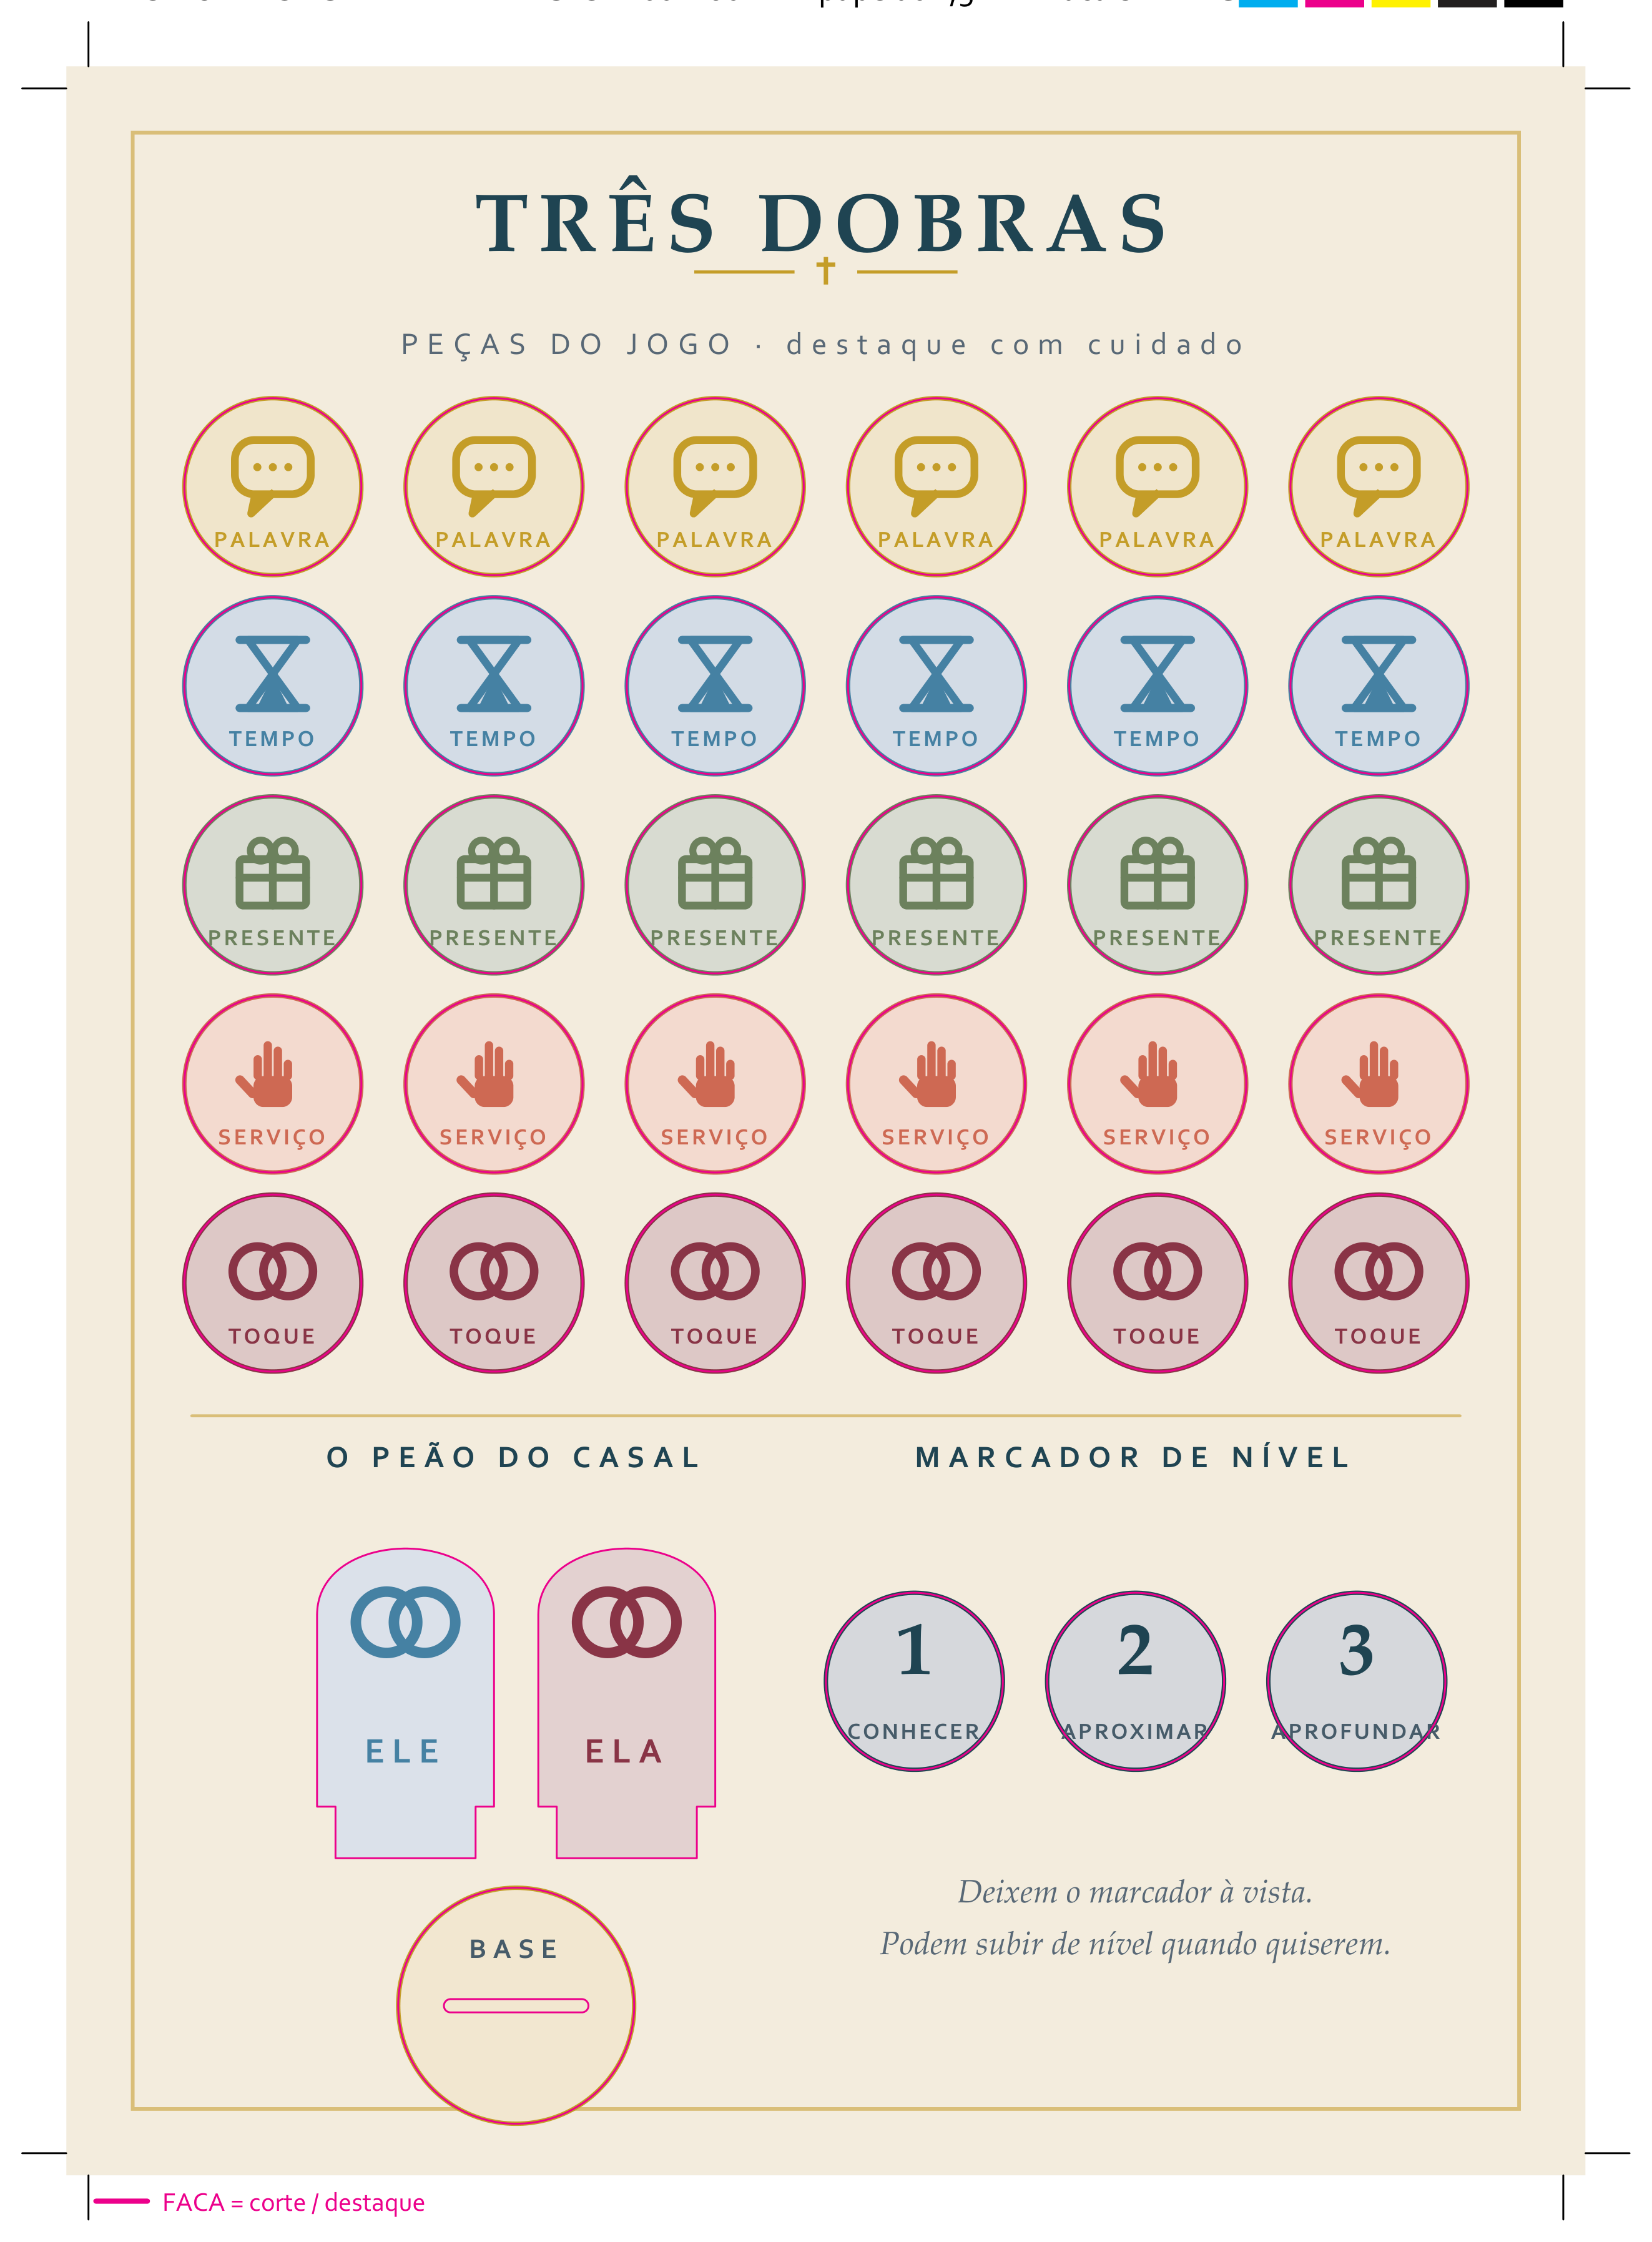
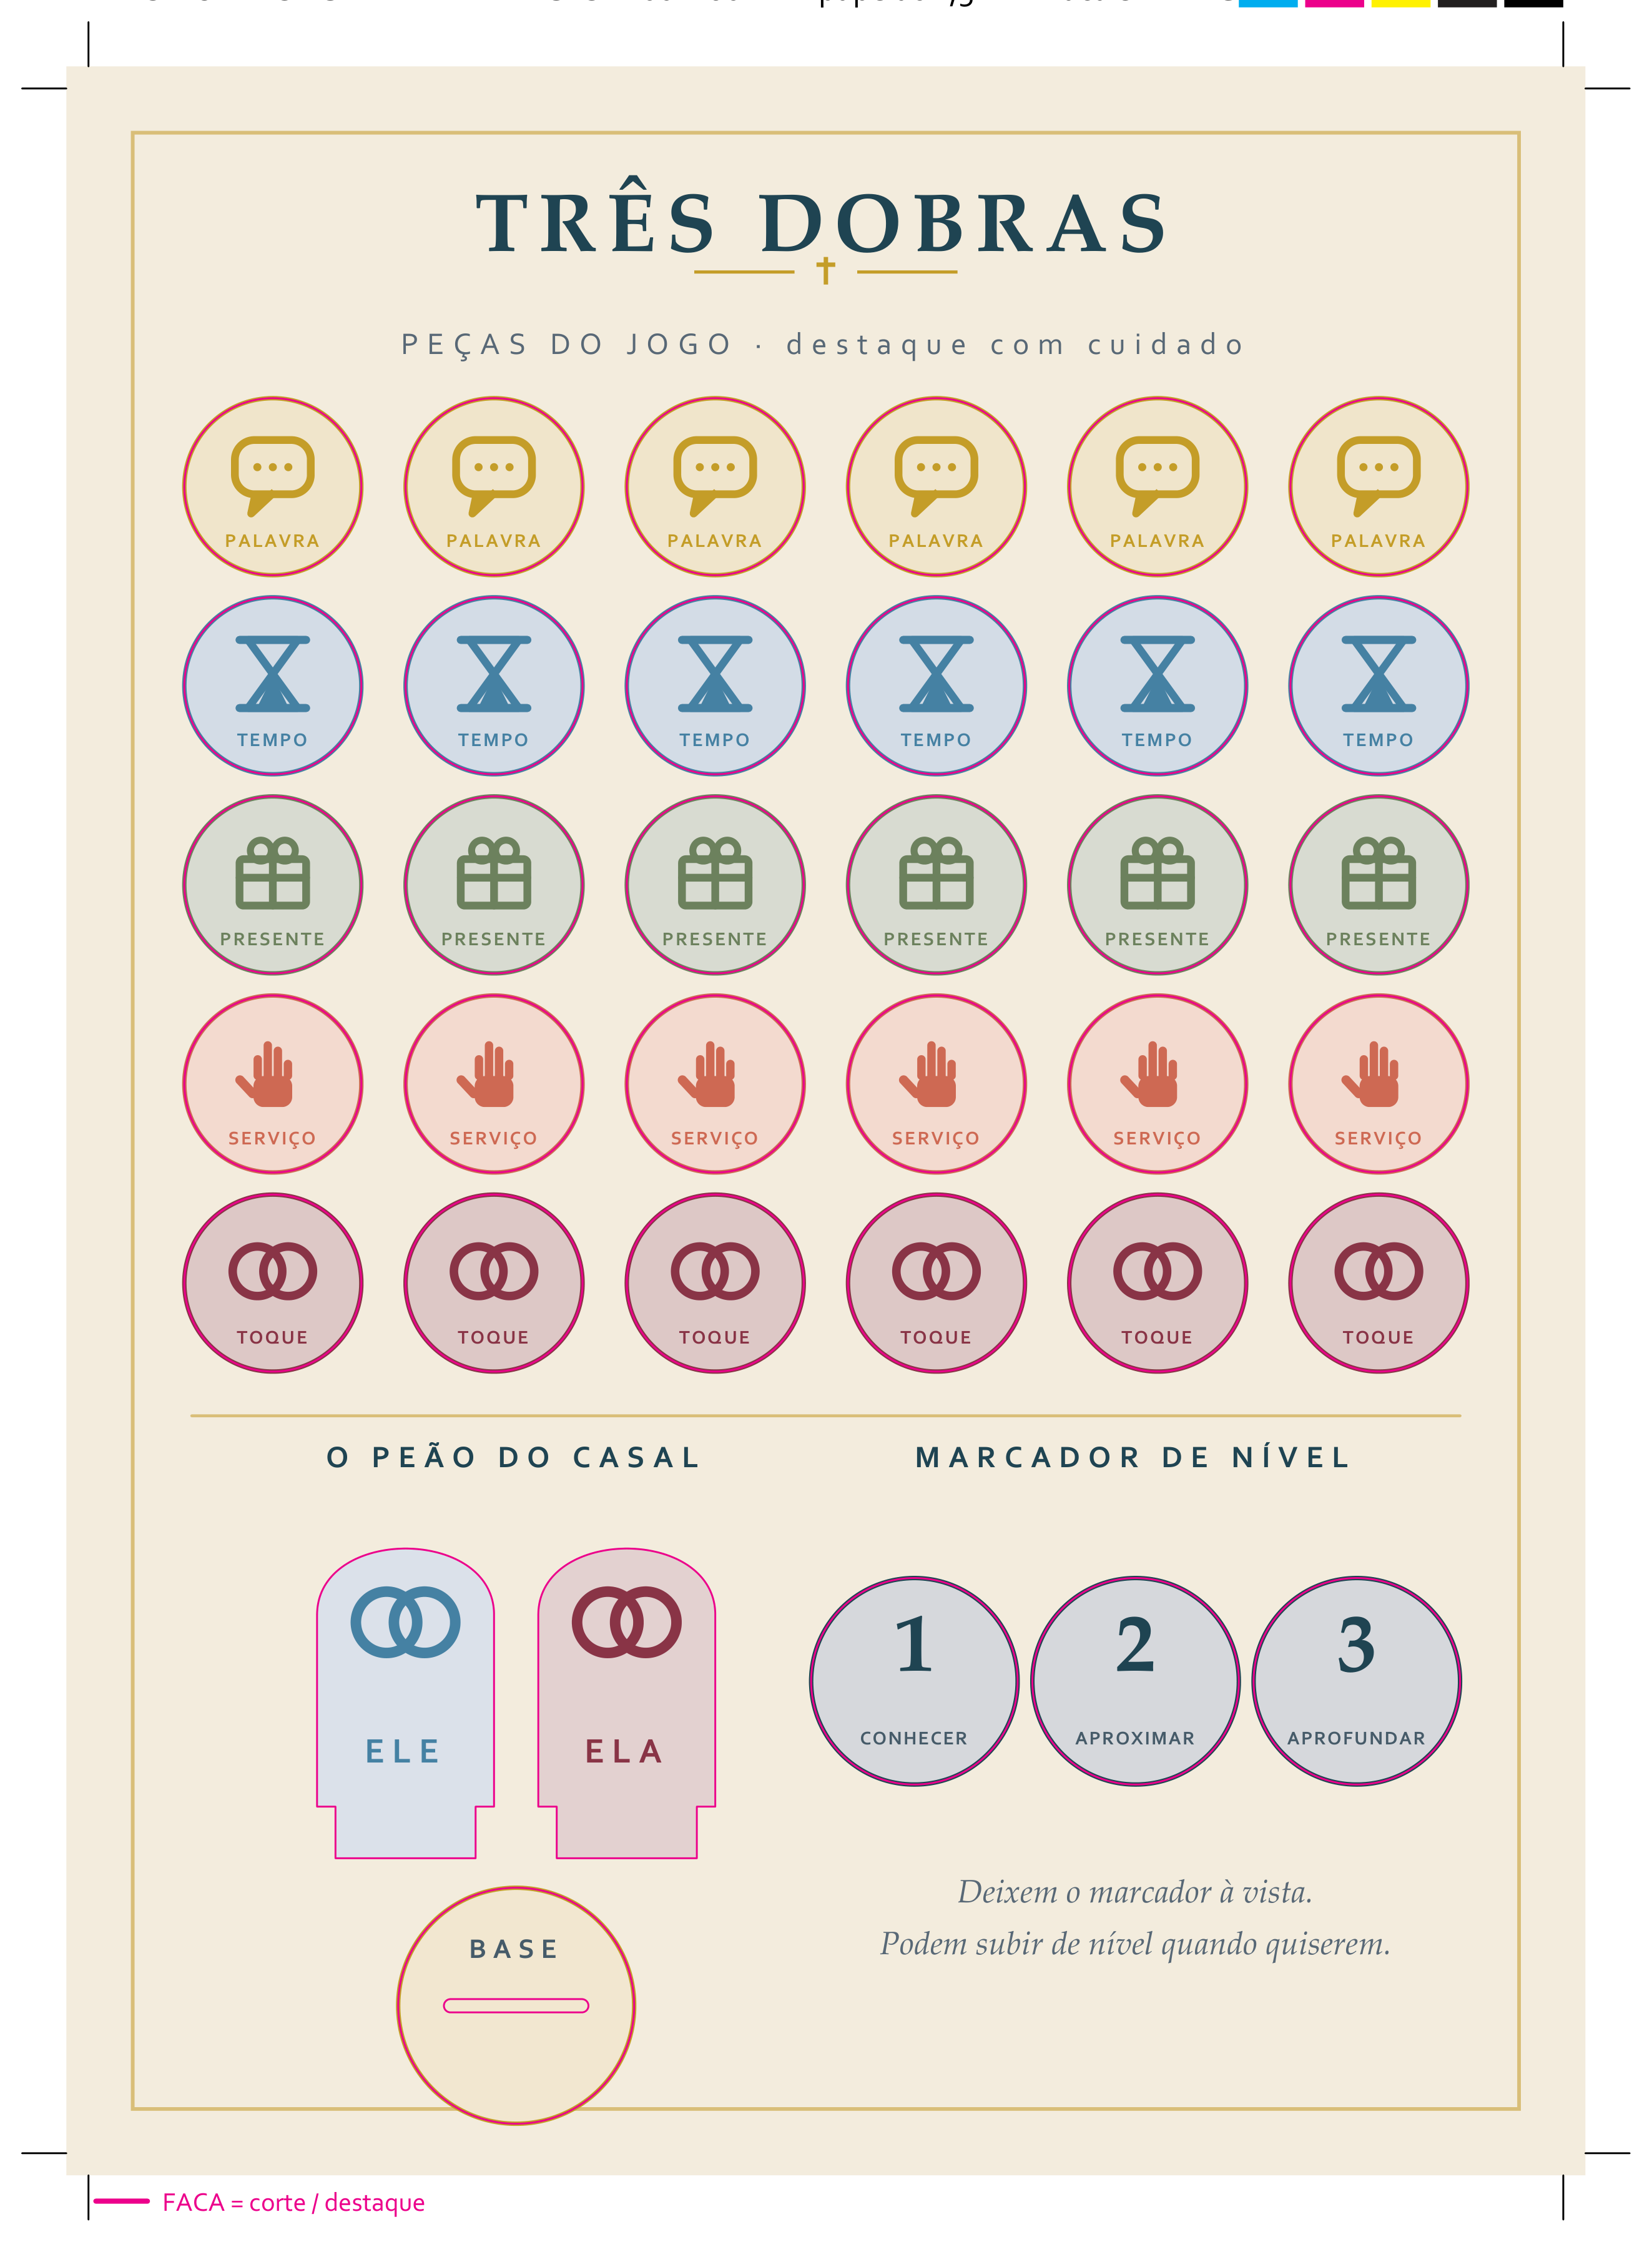
fix: rotulos da cartela nao estouram mais o circulo (sementes + marcadores)
Bug: txt_fit era chamado com corpo inicial 3.1 e tam_min padrao 3.2 (3.1 < 3.2),
entao o laco de ajuste nunca rodava — o texto saia fixo em 3.1 e palavras longas
(PRESENTE, APROXIMAR, APROFUNDAR) transbordavam a borda do circulo.

- Rotulos das sementes e dos marcadores agora limitam a largura a CORDA real do
  circulo (2*raiz(r^2 - dy^2) menos folga) e encolhem de fato, em tamanho
  uniforme (helper _tam_uniforme_txt em pecas.py).
- Marcadores de nivel: circulo 12 -> 14 mm (so ha 3, sobra espaco) para o texto
  nao ficar minusculo; numero 1/2/3 um pouco maior.

diff --git a/src/pecas.py b/src/pecas.py
@@ -8,10 +8,24 @@ TRÊS DOBRAS — PEÇAS DESTACÁVEIS
 Sangria 3 mm em tudo. Linhas de FACA em magenta 100% com sobreimpressão.
 """
 import os
+import math
 from comum import *
 
 FACA = cmyk(0, 100, 0, 0)          # cor técnica: mover para camada própria
 VINCO_C = cmyk(100, 0, 0, 0)       # ciano 100% = linha de vinco/dobra
+
+
+def _tam_uniforme_txt(palavras, fonte, larg, tam0, trk0):
+    """Maior corpo <= tam0 (tracking proporcional) para TODAS as palavras caberem
+       em `larg` mm. Uso: rótulos dentro de círculos, sem estourar a borda."""
+    t = tam0
+    while t > 1.6:
+        tr = trk0 * (t / tam0)
+        if all(pdfmetrics.stringWidth(w, fonte, t) + tr * len(w) <= larg
+               for w in palavras):
+            break
+        t -= 0.05
+    return t, trk0 * (t / tam0)
 
 
 def _faca(p, fechar=None):
@@ -62,14 +76,18 @@ def cartela(p):
     RS = 12.0
     xs = [25 + i * 30 for i in range(6)]
     ys = [226, 199, 172, 145, 118]
+    # rótulo cabe na corda do círculo à altura da base do texto (nunca estoura)
+    larg_s = 2 * math.sqrt(RS ** 2 - 8.2 ** 2) - 3.0
+    tam_s, trk_s = _tam_uniforme_txt([NAIPES[t]["nome"] for t in CORES_SEMENTE],
+                                     "TextoBold", larg_s, 3.3, 0.3)
     for tipo, y in zip(CORES_SEMENTE, ys):
         cor = NAIPES[tipo]["cor"]
         for x in xs:
             p.circ(x, y, RS, fill=tinta(cor, 20))
             p.circ(x, y, RS, stroke=cor, lw=0.6)
             ICONES[tipo](p, x, y + 1.6, 10.5, cor)
-            p.txt_fit(x, y - 8.2, NAIPES[tipo]["nome"], "TextoBold", 3.1, 19.0,
-                      cor, "c", tracking=0.35)
+            p.txt(x, y - 8.2, NAIPES[tipo]["nome"], "TextoBold", tam_s, cor, "c",
+                  tracking=trk_s)
             faca_circ(p, x, y, RS)
     assert ys[0] + RS < CHh - 40, "sementes colidem com o cabeçalho"
 
@@ -108,15 +126,19 @@ def cartela(p):
 
     # ---- marcadores de nível ---------------------------------------------
     p.txt(142, 93, "MARCADOR DE NÍVEL", "TextoBold", 4.2, PETROLEO, "c", tracking=1.1)
+    RM = 14.0                       # marcadores um pouco maiores: só há 3, sobra espaço
+    rots = ["CONHECER", "APROXIMAR", "APROFUNDAR"]
+    larg_m = 2 * math.sqrt(RM ** 2 - 8.6 ** 2) - 3.0
+    tam_m, trk_m = _tam_uniforme_txt(rots, "TextoBold", larg_m, 3.4, 0.25)
     for k, (num, rot) in enumerate([("1", "CONHECER"), ("2", "APROXIMAR"),
                                     ("3", "APROFUNDAR")]):
         x, y = 112 + k * 30, 64
-        p.circ(x, y, RS, fill=tinta(PETROLEO, 12))
-        p.circ(x, y, RS, stroke=PETROLEO, lw=0.6)
-        p.txt(x, y + 1.0, num, "TituloBold", 10.0, PETROLEO, "c")
-        p.txt_fit(x, y - 7.8, rot, "TextoBold", 3.1, 19.0, tinta(PETROLEO, 80), "c",
-                  tracking=0.3)
-        faca_circ(p, x, y, RS)
+        p.circ(x, y, RM, fill=tinta(PETROLEO, 12))
+        p.circ(x, y, RM, stroke=PETROLEO, lw=0.6)
+        p.txt(x, y + 1.4, num, "TituloBold", 11.0, PETROLEO, "c")
+        p.txt(x, y - 8.6, rot, "TextoBold", tam_m, tinta(PETROLEO, 80), "c",
+              tracking=trk_m)
+        faca_circ(p, x, y, RM)
 
     p.txt(142, 34, "Deixem o marcador à vista.", "TituloIt", 4.4,
           tinta(PETROLEO, 70), "c")